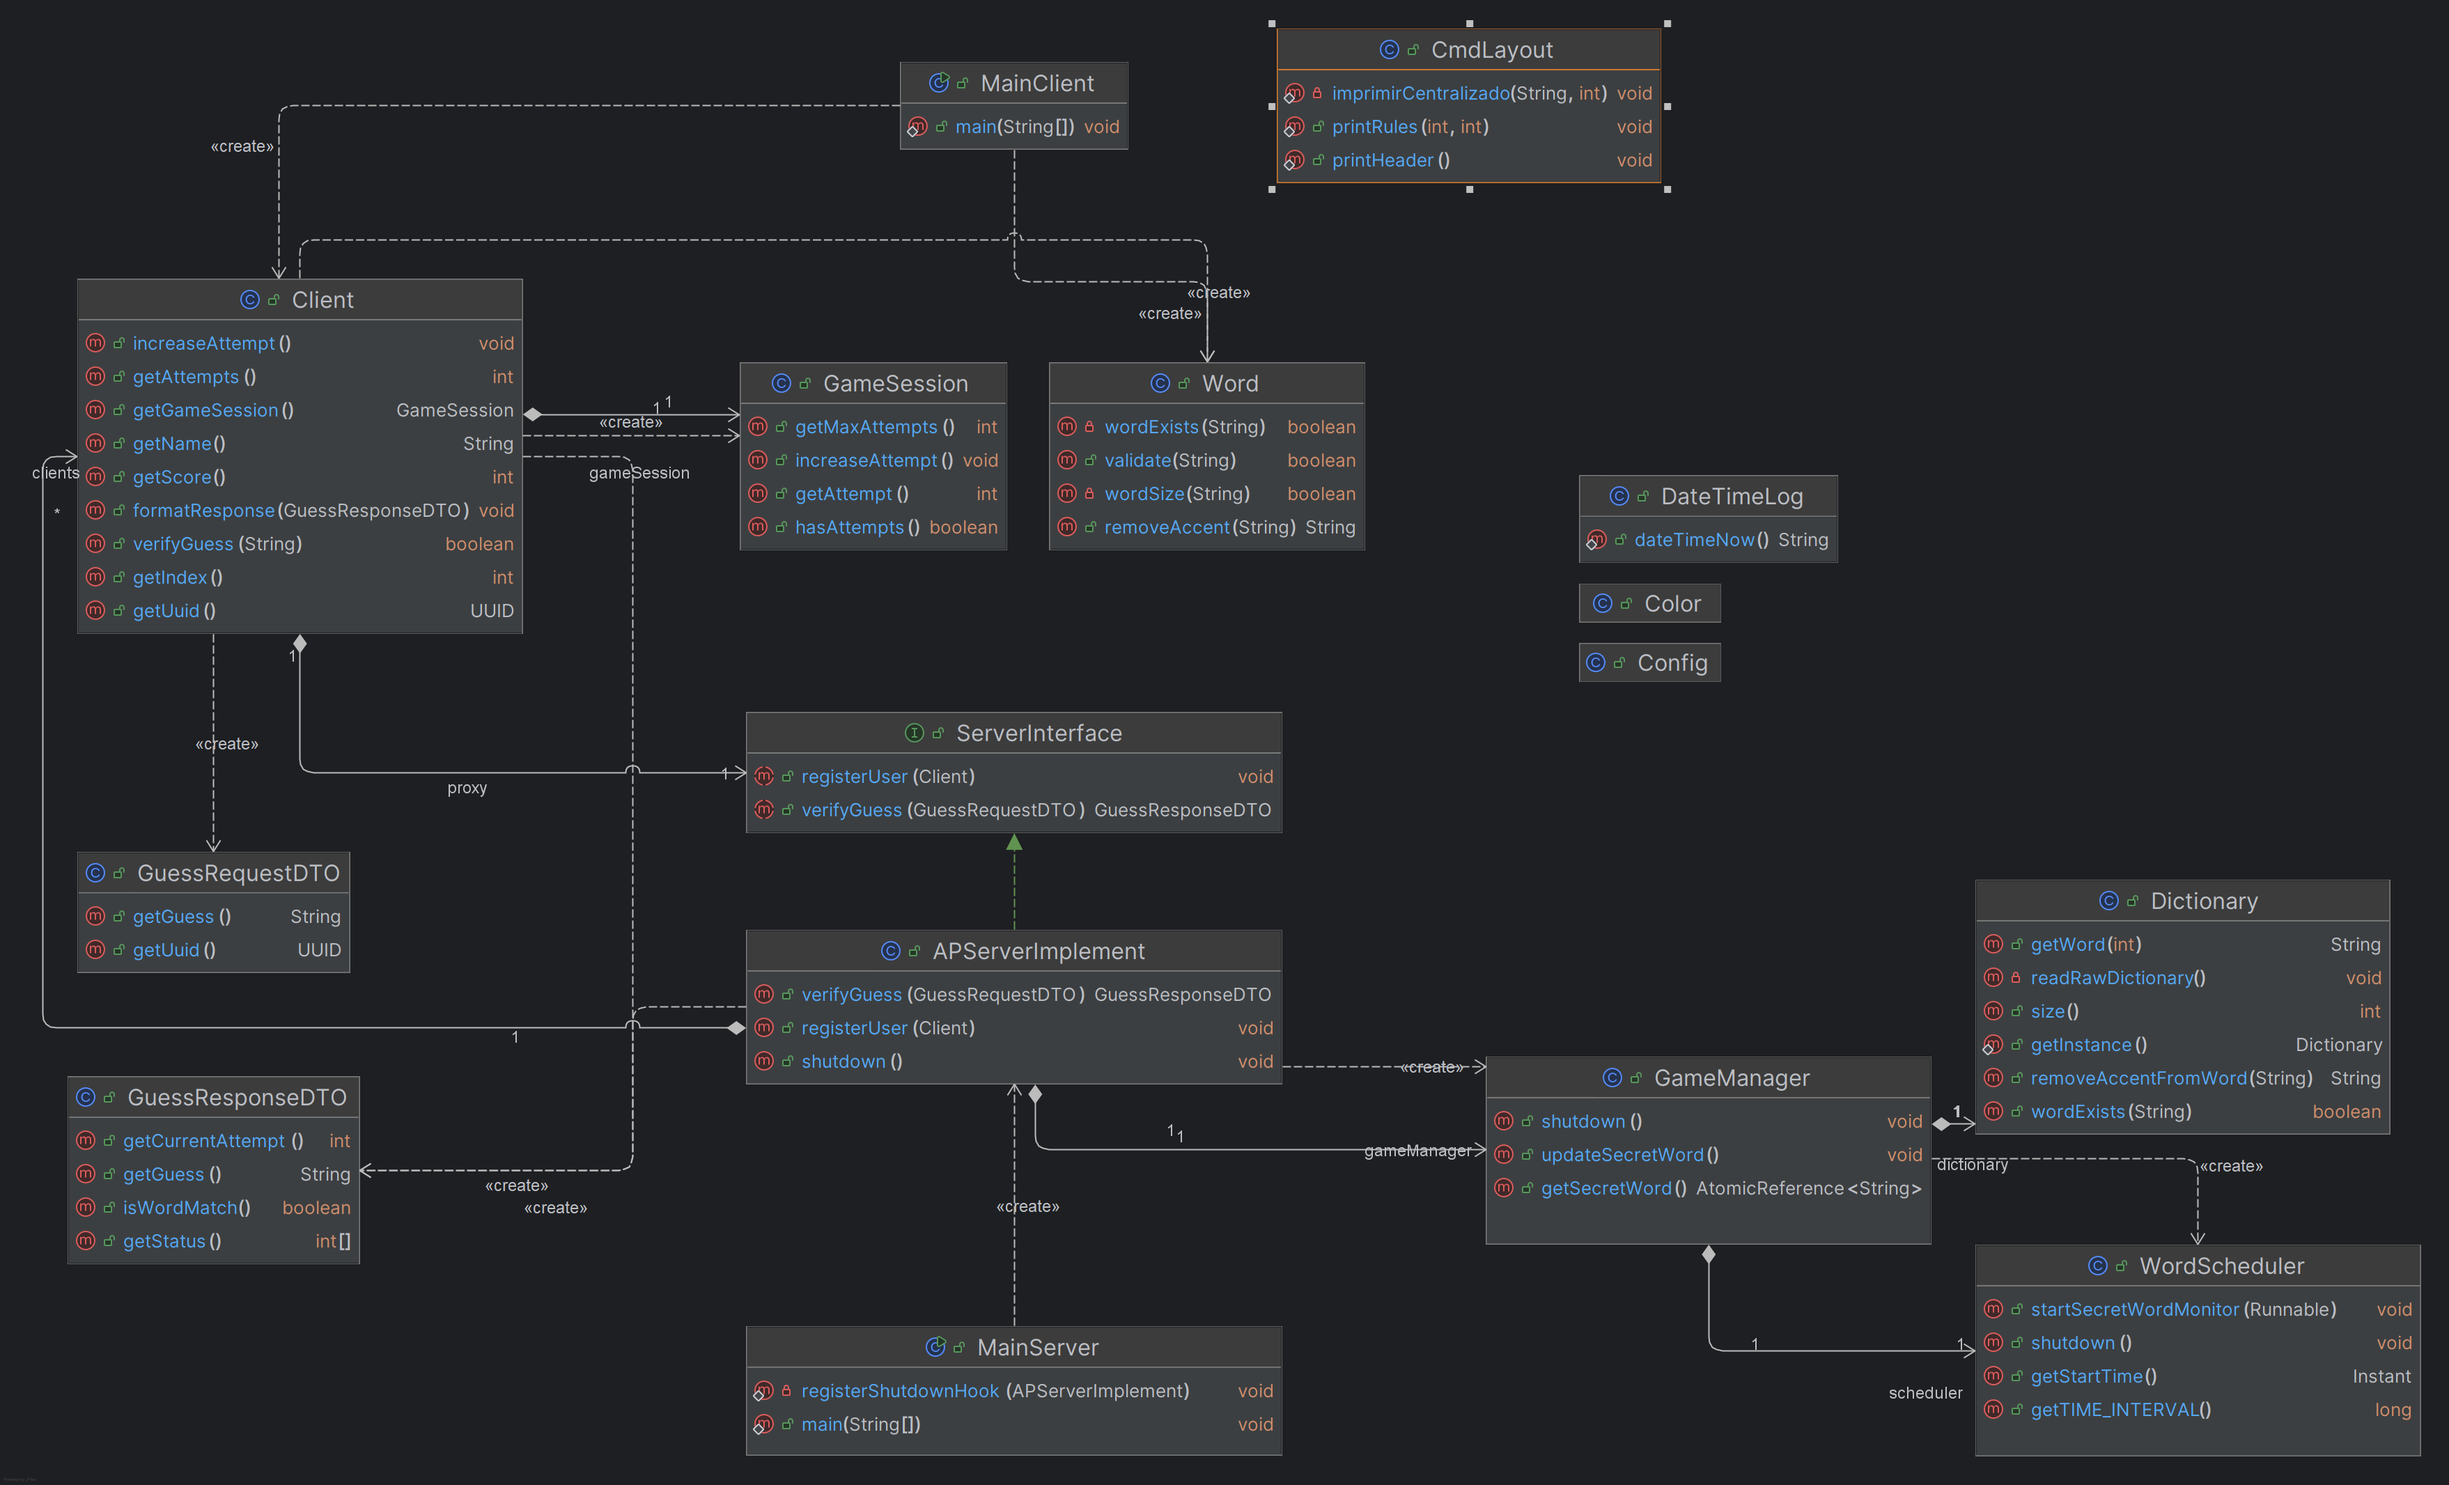
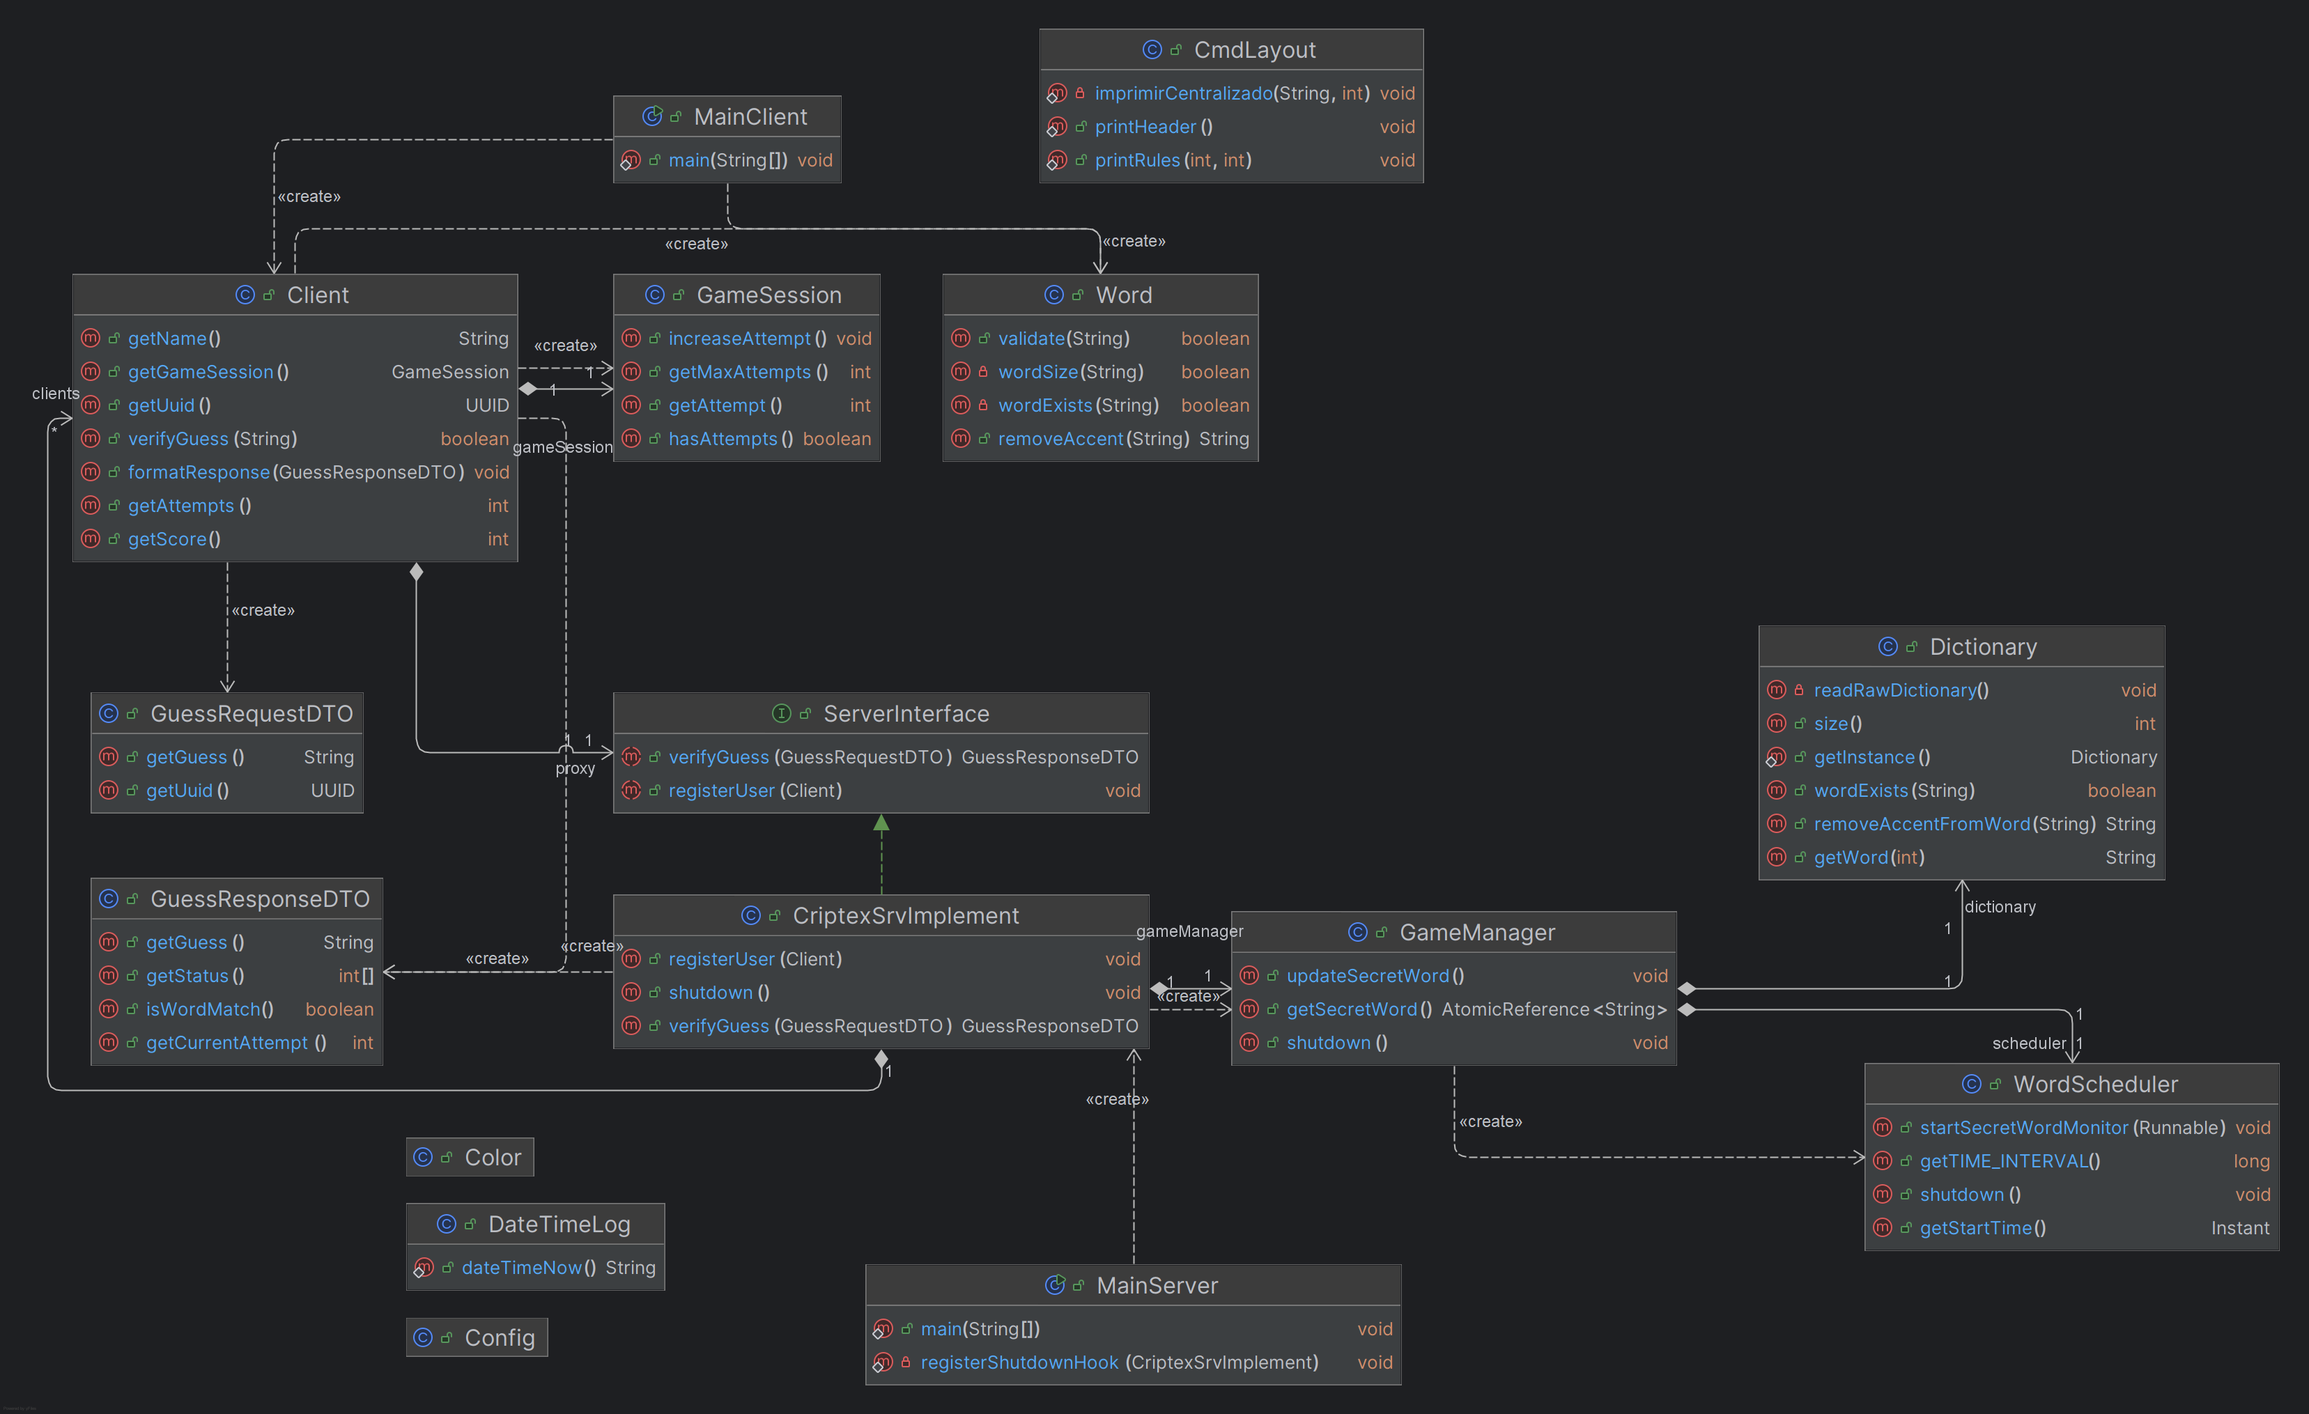
Melhorias em comentários.

diff --git a/src/main/java/client/Client.java b/src/main/java/client/Client.java
@@ -26,37 +26,24 @@ import java.util.UUID;
  * @version 1.0
  */
 public class Client implements Serializable {
-    private final Registry registry;
     private final ServerInterface proxy;
-    private int index = 0;
-
     private int score = 0;
-    private int attempt = 0;
     private final GameSession gameSession;
+
     /** Parâmetro que cria um identificador único para o jogador (UUID Universally Unique Identifier) */
     private final UUID uuid;
-    private String name = "Anonymous";
+    private final String name;
 
      public Client() throws RemoteException {
-        try {
-            this.uuid = UUID.randomUUID();
-            this.gameSession = new GameSession();
-
-            this.registry = LocateRegistry.getRegistry(Config.IP_ADDRESS, Config.SERVER_PORT);
-            this.proxy = (ServerInterface) this.registry.lookup(Config.SERVER_NAME);
-
-            this.proxy.registerUser(this);
-
-        } catch (NotBoundException e) {
-            throw new RuntimeException(e);
-        }
+         this("Anonymous");
     }
+
     public Client(String name) throws RemoteException {
         try {
             this.uuid = UUID.randomUUID();
             this.name = name;
-            this.registry = LocateRegistry.getRegistry(Config.IP_ADDRESS, Config.SERVER_PORT);
-            this.proxy = (ServerInterface) this.registry.lookup(Config.SERVER_NAME);
+            Registry registry = LocateRegistry.getRegistry(Config.IP_ADDRESS, Config.SERVER_PORT);
+            this.proxy = (ServerInterface) registry.lookup(Config.SERVER_NAME);
             this.proxy.registerUser(this);
             this.gameSession = new GameSession();
 
@@ -64,7 +51,6 @@ public class Client implements Serializable {
             throw new RuntimeException(e);
         }
     }
-
 
     /**
      *
@@ -128,16 +114,9 @@ public class Client implements Serializable {
     public GameSession getGameSession() {
         return gameSession;
     }
-    public void increaseAttempt() {
-        this.attempt++;
-    }
 
     public int getAttempts() {
         return gameSession.getAttempt();
-    }
-
-    public int getIndex() {
-        return index;
     }
 
     public int getScore() {

diff --git a/src/main/java/server/MainServer.java b/src/main/java/server/MainServer.java
@@ -1,6 +1,6 @@
 package server;
 
-import server.remote.APServerImplement;
+import server.remote.CriptexSrvImplement;
 import shared.config.Config;
 import shared.status.Color;
 import shared.status.DateTimeLog;
@@ -20,11 +20,11 @@ import java.rmi.registry.Registry;
 public class MainServer {
 
     public static void main(String[] args) {
-        APServerImplement criptexService = null;
+        CriptexSrvImplement criptexService = null;
         try{
             System.out.println("Servidor RMI \n[ServerName: " + Config.SERVER_NAME + "] " +
                     "[port:" + Config.SERVER_PORT + "] online...");
-            criptexService = new APServerImplement();
+            criptexService = new CriptexSrvImplement();
             Registry registry = LocateRegistry.createRegistry(Config.SERVER_PORT);
             registry.rebind(Config.SERVER_NAME, criptexService);
 
@@ -41,7 +41,7 @@ public class MainServer {
     }
 
     /* Rotina de shutdown em cascata para evitar que a thread de WordScheduler continue rodando após o desligamento*/
-    private static void registerShutdownHook(APServerImplement service) {
+    private static void registerShutdownHook(CriptexSrvImplement service) {
         Runtime.getRuntime().addShutdownHook(new Thread(() -> {
             System.out.println("[" + Color.RED + "ServerName: " + Config.SERVER_NAME +
                     Color.RESET + "] Sinal de encerramento recebido. Iniciando desligamento seguro...");

diff --git a/src/main/java/server/remote/CriptexSrvImplement.java b/src/main/java/server/remote/CriptexSrvImplement.java
@@ -27,11 +27,11 @@ import java.util.List;
  *
  * @version 1.0
  */
-public class APServerImplement extends UnicastRemoteObject implements ServerInterface {
+public class CriptexSrvImplement extends UnicastRemoteObject implements ServerInterface {
     private final List<Client> clients = new ArrayList<>();
     private final GameManager gameManager;
 
-    public APServerImplement() throws RemoteException {
+    public CriptexSrvImplement() throws RemoteException {
         super();
         this.gameManager = new GameManager(newSecretWord ->{
             System.out.println("[\u001B[34m" + DateTimeLog.dateTimeNow() + "\u001B[0m] " +

diff --git a/src/main/java/client/MainClient.java b/src/main/java/client/MainClient.java
@@ -65,8 +65,10 @@ public class MainClient {
         }
 
         } catch (RemoteException e) {
+            sc.close();
             System.out.println(Color.RED + "\nServidor RMI: " + Config.SERVER_NAME +
-                    " não encontrado no endereço " + Config.IP_ADDRESS + "\n" + e.getMessage());
+                    " não encontrado no endereço " + Config.IP_ADDRESS + "\nVerifique se o servidor foi iniciado " +
+                    "corretamente.");
         }
         sc.close();
    }
